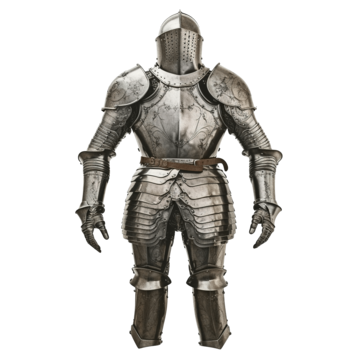
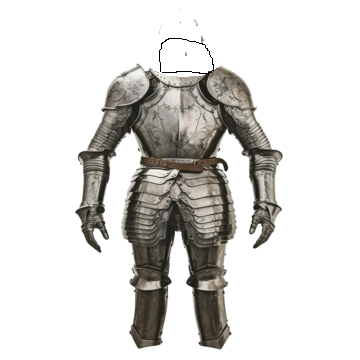
j

Changed region(s): [[0.4278, 0.0306, 0.6111, 0.2139]]

diff --git a/bullet.py b/bullet.py
@@ -8,10 +8,13 @@ pygame.init()
 # Screen dimensions
 WIDTH, HEIGHT = 800, 600
 screen = pygame.display.set_mode((WIDTH, HEIGHT))
-pygame.display.set_caption("space cadaver")
+pygame.display.set_caption("Space Cadaver")
 
 # Colors
 WHITE = (255, 255, 255)
+RED = (255, 0, 0)
+GREEN = (0, 255, 0)
+
 FPS = 60
 clock = pygame.time.Clock()
 
@@ -27,73 +30,84 @@ class Player(pygame.sprite.Sprite):
         self.rect.center = (WIDTH // 2, HEIGHT // 2)
         self.vel_y = 0
         self.jumping = False
+        self.health = 100  # Player's health
 
         # Load and resize gun image (PNG)
-        self.gun_image = pygame.image.load("gun2.png").convert_alpha()
-        self.gun_image = pygame.transform.scale(self.gun_image, (50, 30))  
+        self.gun_image = pygame.image.load("gun.png").convert_alpha()
+        self.gun_image = pygame.transform.scale(self.gun_image, (40, 20))  
 
     def update(self):
-        
         self.vel_y += GRAVITY
         self.rect.y += self.vel_y
 
-        
         keys = pygame.key.get_pressed()
         if keys[pygame.K_LEFT]:
             self.rect.x -= 5
         if keys[pygame.K_RIGHT]:
             self.rect.x += 5
 
-        
         if self.rect.left < 0:
             self.rect.left = 0
         if self.rect.right > WIDTH:
             self.rect.right = WIDTH
 
-        
         if keys[pygame.K_SPACE] and not self.jumping:
             self.vel_y = -15
             self.jumping = True
 
-        
         self.collide()
 
     def collide(self):
         hit_list = pygame.sprite.spritecollide(self, platforms, False)
         for platform in hit_list:
-            if self.vel_y > 0:  # Fall down
+            if self.vel_y > 0:  # Falling down
                 self.rect.bottom = platform.rect.top
                 self.vel_y = 0
                 self.jumping = False
 
     def shoot(self, mouse_pos):
-        # Calculate the vector length 
+        # Calculate the vector length
         direction = pygame.math.Vector2(mouse_pos) - self.rect.center
         direction = direction.normalize()
 
-        # gun offsen
-        gun_offset = pygame.math.Vector2(20, 0).rotate(-math.degrees(math.atan2(-direction.y, direction.x)))
+        # Gun offset
+        gun_offset = pygame.math.Vector2(40, 0).rotate(-math.degrees(math.atan2(-direction.y, direction.x)))
         bullet_x = self.rect.centerx + gun_offset.x
         bullet_y = self.rect.centery + gun_offset.y
 
-        
         bullet = Bullet(bullet_x, bullet_y, direction)
         all_sprites.add(bullet)
         bullets.add(bullet)
 
     def draw(self, surface):
-        
         surface.blit(self.image, self.rect.topleft)
 
-        
+        # Rotate the gun to point towards the mouse
         mouse_pos = pygame.mouse.get_pos()
         direction = pygame.math.Vector2(mouse_pos) - self.rect.center
         angle = math.degrees(math.atan2(-direction.y, direction.x))
 
-        
         rotated_gun = pygame.transform.rotate(self.gun_image, angle)
         gun_rect = rotated_gun.get_rect(center=self.rect.center + pygame.math.Vector2(20, 0).rotate(-angle))
         surface.blit(rotated_gun, gun_rect.topleft)
+
+        # Draw the health bar above the player
+        self.draw_health_bar(surface)
+
+    def draw_health_bar(self, surface):
+        # Set the dimensions for the health bar
+        bar_width = 50
+        bar_height = 5
+        health_bar_rect = pygame.Rect(self.rect.centerx - bar_width // 2, self.rect.top - 10, bar_width, bar_height)
+
+        # Calculate the health percentage and set the color based on health
+        health_percentage = self.health / 100
+        current_health_rect = pygame.Rect(health_bar_rect.left, health_bar_rect.top,
+                                          int(bar_width * health_percentage), bar_height)
+
+        # Draw the health bar
+        pygame.draw.rect(surface, RED, health_bar_rect)
+        pygame.draw.rect(surface, GREEN, current_health_rect)
 
 class Platform(pygame.sprite.Sprite):
     def __init__(self, x, y, width, height):
@@ -116,52 +130,87 @@ class Bullet(pygame.sprite.Sprite):
         self.direction = direction
 
     def update(self):
-        
         self.rect.x += self.direction.x * self.speed
         self.rect.y += self.direction.y * self.speed
         
+        # Remove the bullet if it goes off-screen
         if self.rect.right < 0 or self.rect.left > WIDTH or self.rect.bottom < 0 or self.rect.top > HEIGHT:
             self.kill()
 
 class Opponent(pygame.sprite.Sprite):
     def __init__(self, x, y):
         super().__init__()
-        self.image = pygame.image.load("opponent.png").convert_alpha()  
-        self.image = pygame.transform.scale(self.image, (70, 70))  
+        # Load the opponent's full image
+        self.image = pygame.image.load("op2.png").convert_alpha()
+        self.image = pygame.transform.scale(self.image, (90, 90))
         self.rect = self.image.get_rect()
         self.rect.x = x
         self.rect.y = y
+        
+        # Flag to track decapitation
+        self.decapitated = False
+        
+        # Timer for animation
+        self.animation_timer = 0
+        
+        # Load the head decapitation frames
+        self.decapitation_frames = [
+            pygame.transform.scale(pygame.image.load("op4.png").convert_alpha(), (90, 90)),
+            pygame.transform.scale(pygame.image.load("op3.png").convert_alpha(), (90, 90)),
+            pygame.transform.scale(pygame.image.load("op5.png").convert_alpha(), (90, 90))
+        ]
+        self.current_frame = 0
 
-    def die(self):
-        self.kill()  # Remove the opps
+        
+        self.shootingzone_top = self.rect.y
+        self.shootingzone_bottom = self.rect.y + int(self.rect.height * 0.8)  
+
+    def update(self):
+        if self.decapitated:
+            self.animation_timer += 1
+            if self.animation_timer % 10 == 0:
+                if self.current_frame < len(self.decapitation_frames):
+                    self.image = self.decapitation_frames[self.current_frame]
+                    self.current_frame += 1
+                else:
+                    self.kill()  # Remove the sprite after the animation completes
+
+    def die(self, bullet):
+        # Check if the bullet hit the head
+        if self.shootingzone_top <= bullet.rect.centery <= self.shootingzone_bottom:
+            self.decapitated = True  # Start the decapitation animation
+            self.image = self.decapitation_frames[0]  # Start with the first frame
+        else:
+            self.kill()  # Remove opponent without animation
 
 
+# Sprite groups
 all_sprites = pygame.sprite.Group()
 platforms = pygame.sprite.Group()
 bullets = pygame.sprite.Group()
 opponents = pygame.sprite.Group()
 
-# player
+# Create the player
 player = Player()
 all_sprites.add(player)
 
-# platforms
+# Create platforms
 platform1 = Platform(100, 500, 200, 20)
 platform2 = Platform(400, 400, 200, 20)
 platforms.add(platform1, platform2)
 all_sprites.add(platform1, platform2)
 
-#  opponents
+# Create opponents
 opponent1 = Opponent(300, 250)
 opponent2 = Opponent(500, 150)
 opponents.add(opponent1, opponent2)
 all_sprites.add(opponent1, opponent2)
 
-#  
+# Load and resize crosshair image
 crosshair_image = pygame.image.load("crosshair.png").convert_alpha()
 crosshair_image = pygame.transform.scale(crosshair_image, (20, 20))  # Resize crosshair
 
-# Main game 
+# Main game loop
 running = True
 while running:
     for event in pygame.event.get():
@@ -175,17 +224,17 @@ while running:
                 mouse_pos = pygame.mouse.get_pos()
                 player.shoot(mouse_pos)
 
-    # Update
+    # Update all sprites
     all_sprites.update()
 
     # Check for collisions between bullets and opponents
     for bullet in bullets:
         hits = pygame.sprite.spritecollide(bullet, opponents, False)
         for hit in hits:
-            hit.die()
+            hit.die(bullet)  # Trigger the decapitation animation if hit in the head
             bullet.kill()  # Remove the bullet
 
-    # Draw
+    # Draw everything
     screen.fill(WHITE)
     all_sprites.draw(screen)
     player.draw(screen)  # Draw the player with the gun
@@ -200,5 +249,3 @@ while running:
 
     # Cap the frame rate
     clock.tick(FPS)
-
-
